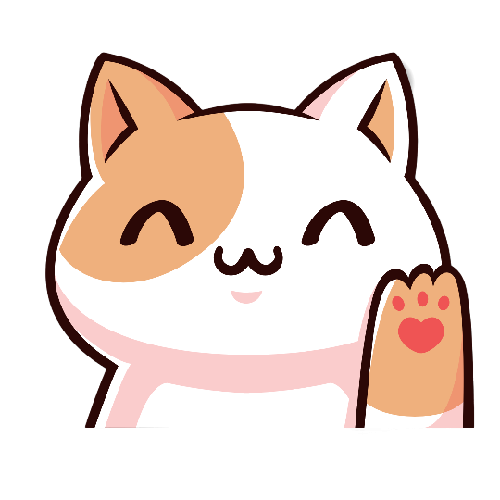
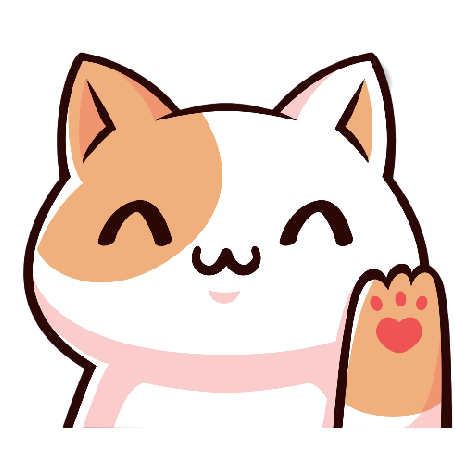
Cat in div + css + add a "next" button

diff --git a/website/index.html b/website/index.html
@@ -5,6 +5,8 @@
     <link rel="stylesheet" type="text/css" href="css/main.css" />
     <link rel="stylesheet" type="text/css" href="css/title.css" />
     <link rel="stylesheet" type="text/css" href="css/tinder.css" />
+    <link rel="stylesheet" type="text/css" href="css/cat.css" />
+
 
     <!-- Webpage Title-->
     <title>Studio Bibli</title>
@@ -56,12 +58,15 @@
         <section class="section">
           <!-- Cat Introduction Page-->
           <div class="slide">
-            <center>
-              <img src="../img/1-fococlipping-standard.png" alt="centered image">
-            </center>
-            <center>
-              <span class="white">PHILIPPE</span>
-            </center>
+            <div class="philippe-buttons">
+              <button id="nope"><i class="fa-solid fa-arrow-right"></i></button>
+            </div>
+            <div class="philippe-centered">
+              <img src="../img/1-fococlipping-standard.png" alt="PHILIPPE centered image" />
+            </div>
+            <div class="philippe-name">
+              <span>PHILIPPE</span>
+            </div>
           </div>
 
           <!-- Tinder Page-->

diff --git a/website/css/cat.css b/website/css/cat.css
@@ -1,0 +1,47 @@
+.philippe-centered {
+  display: flex;
+  justify-content: center;
+  align-items: center;
+}
+
+.philippe-centered img {
+  max-height: 20vw;
+  height: auto;
+  display: block;
+}
+
+.philippe-name {
+  width: auto;
+  height: auto;
+  margin-left: auto;
+  margin-right: auto;
+  display: inline-block;
+  position:relative;
+  bottom:150px;
+  left:150px;
+}
+
+ .philippe-name span {
+  font-size: 3rem;
+  justify-content: center;
+  font-family: "Aktiv Grotesk", Helvetica, sans-serif;
+  color: white;
+  font-weight: bold;
+  display: flex;
+}
+
+.philippe-buttons {
+  flex: 0.05 0 100px;
+  text-align: center;
+  padding-top: 20px;
+}
+
+.philippe-buttons button {
+  border-radius: 50%;
+  line-height: 60px;
+  width: 60px;
+  border: 0;
+  background: #FFFFFF;
+  display: inline-block;
+  margin: 0 15%;
+}
